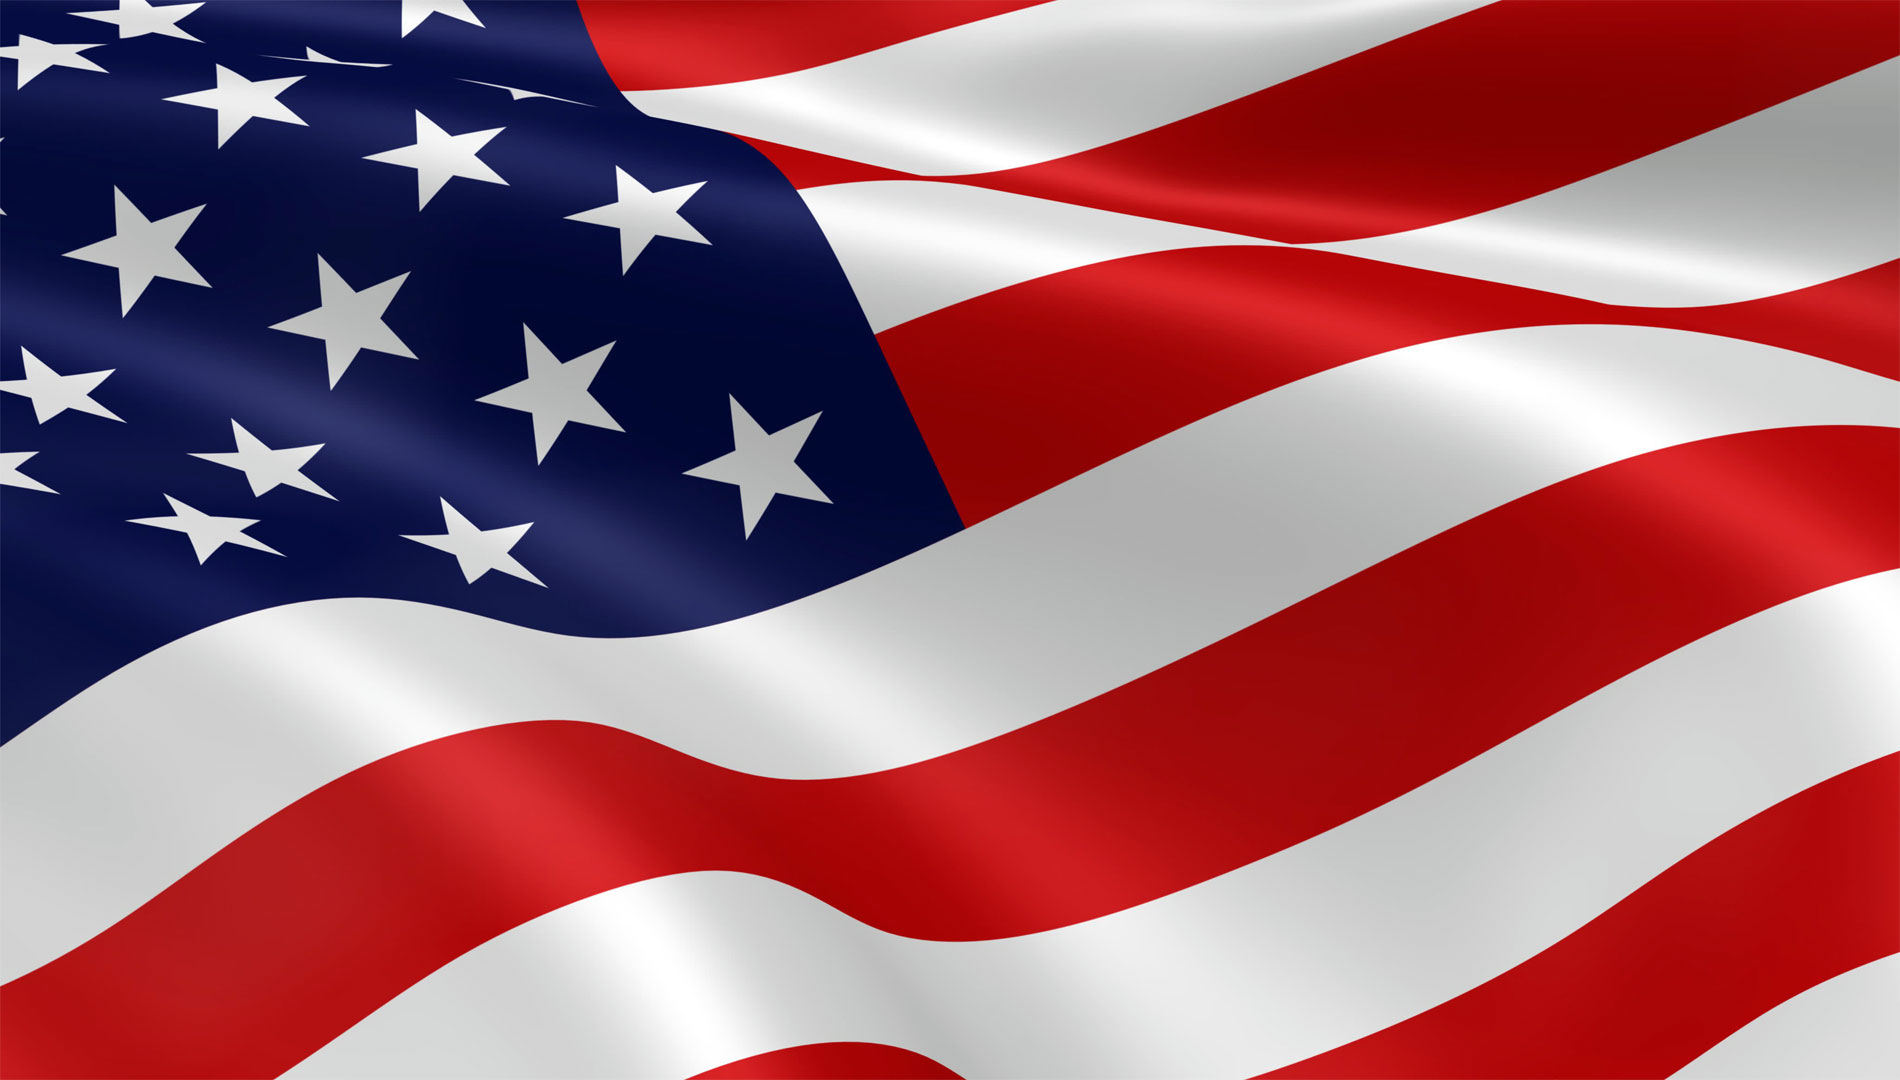
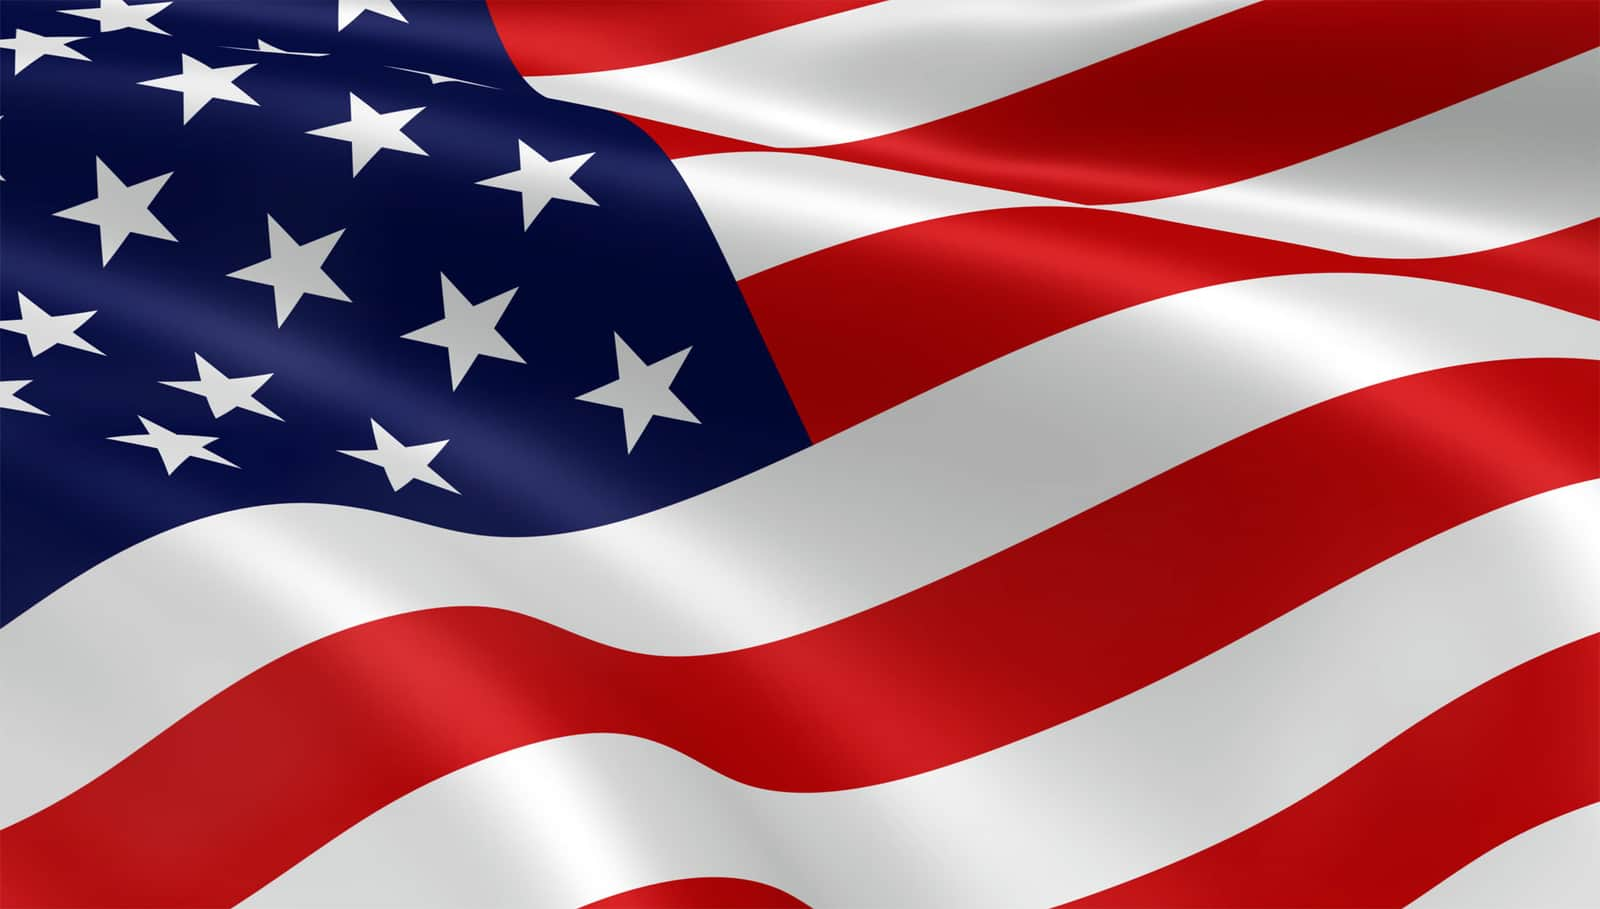
perf: cut mobile LCP ~60% by shrinking hero assets + unused font weights
- logo-morse.png resized 1012x704 -> 316x220 (373KB -> 19KB). It was
  rendering at 92-158px in nav/footer, so the source was 25x oversized;
  /_next/image was doing cold-edge transforms on a huge PNG on every new
  size variant.
- american-flag.jpg recompressed + downsampled (144KB -> 55KB). Used as
  a 25%-opacity ambient behind a navy gradient, so q=65 is visually
  indistinguishable from q=85.
- Dropped Source Serif 4 weights 300 and 900 from next/font — zero usage
  of font-light / font-thin / font-black / font-extralight across src/.

Measured on iPhone 13 + 4G + 4x CPU via Playwright:
mobile LCP 5852ms -> ~2400ms (poor -> good)
desktop LCP 980ms -> ~450ms
CLS stayed at 0 on both.

diff --git a/src/app/layout.js b/src/app/layout.js
@@ -13,7 +13,7 @@ const ebGaramond = EB_Garamond({
 const sourceSerif = Source_Serif_4({
   variable: '--font-body',
   subsets: ['latin'],
-  weight: ['300', '400', '600', '700', '900'],
+  weight: ['400', '600', '700'],
   display: 'swap',
 })
 
